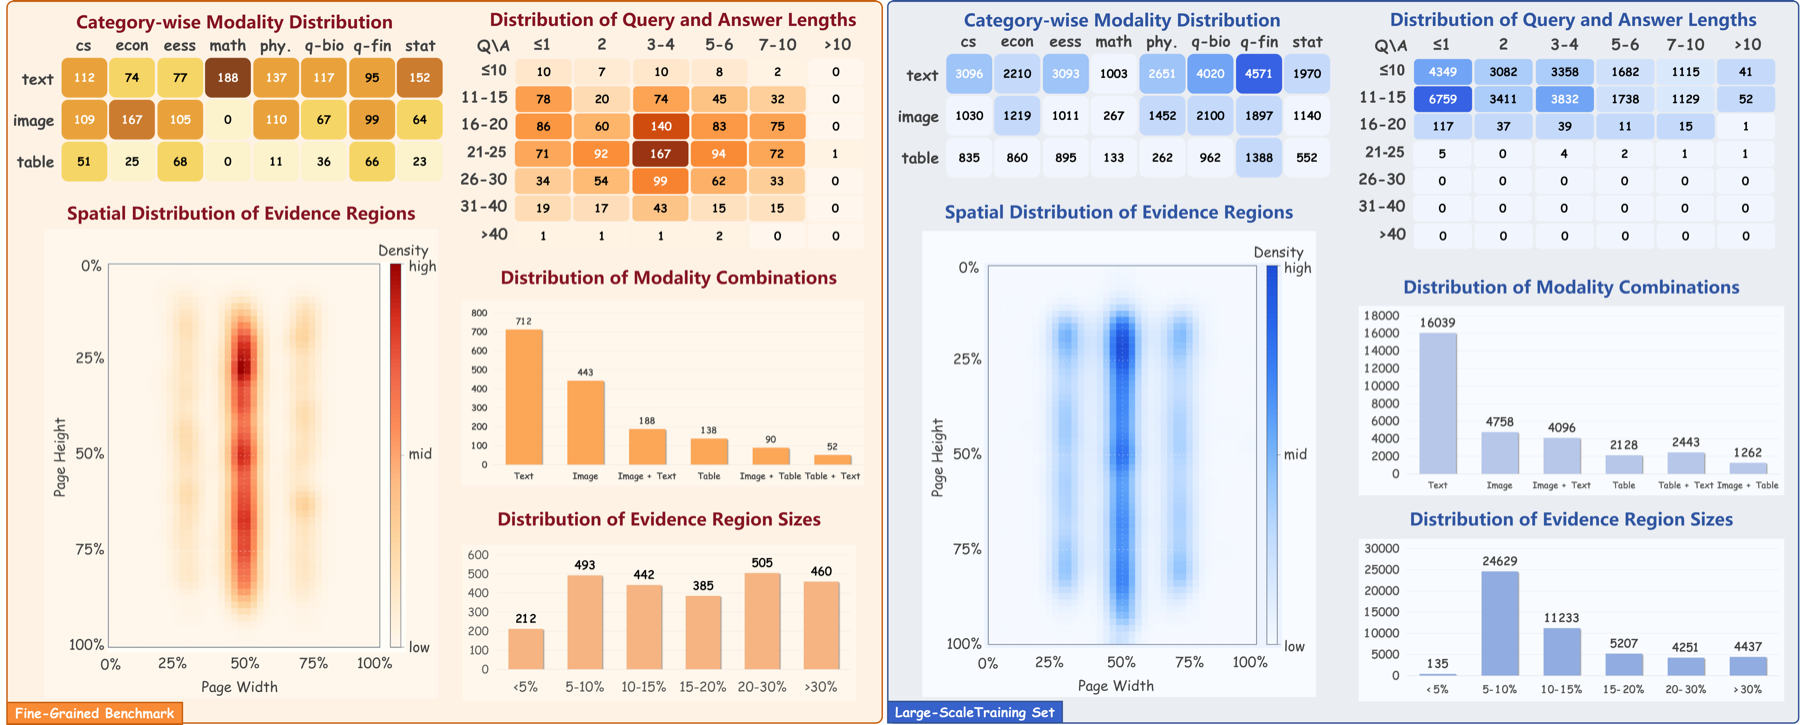
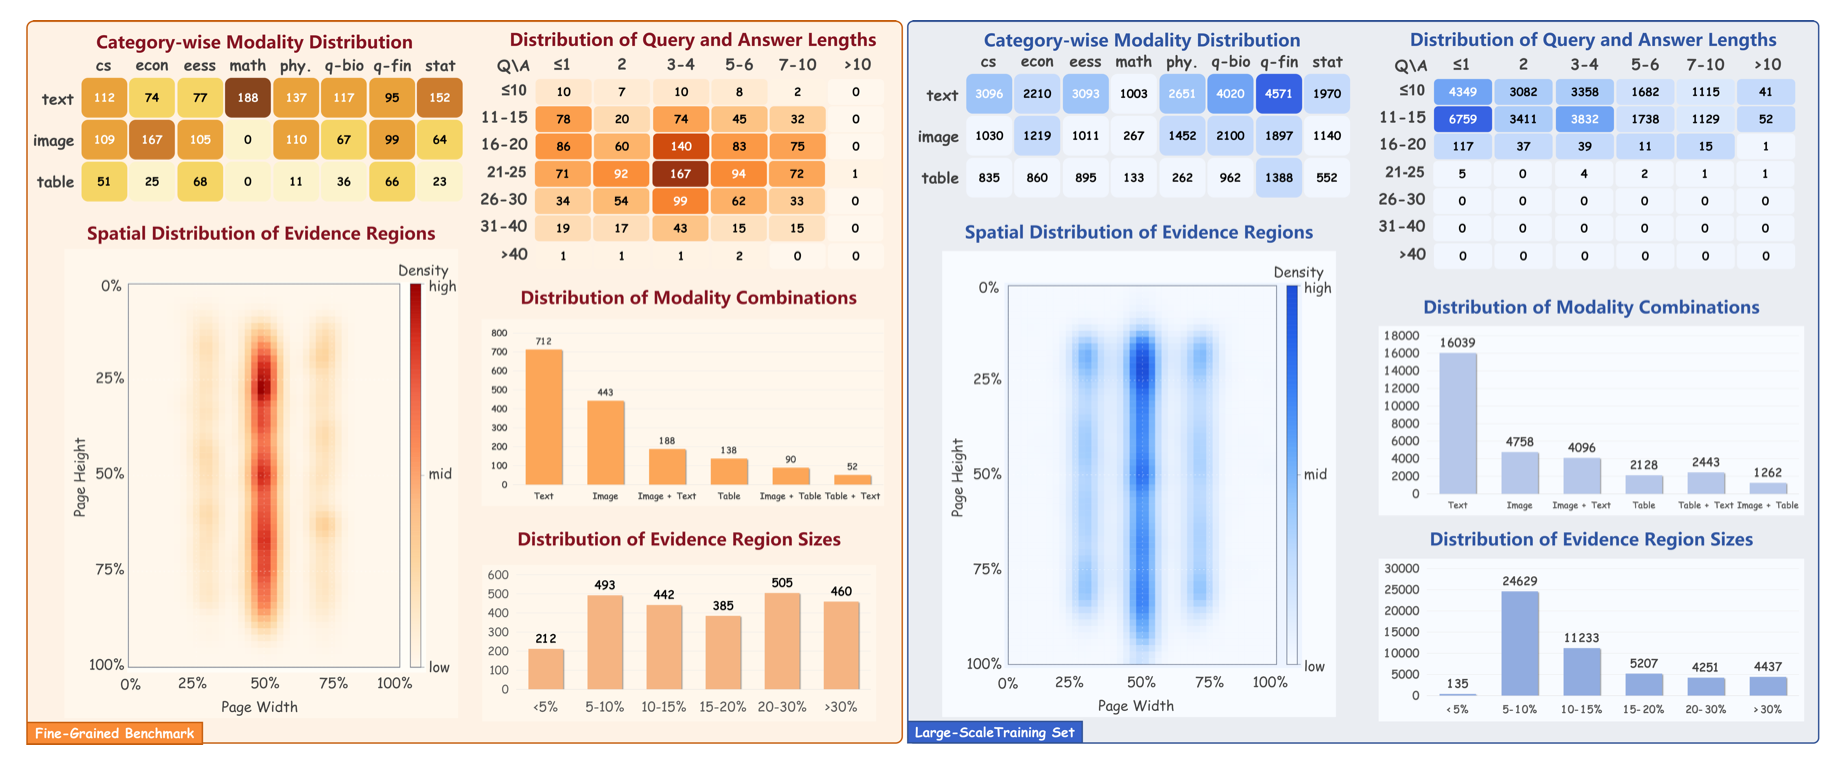
init commit

diff --git a/static/css/index.css b/static/css/index.css
@@ -245,7 +245,7 @@ img {
 }
 
 .metric-card {
-  border-radius: 1.25rem;
+  border-radius: 0.9rem;
   padding: 1.1rem 1rem;
 }
 
@@ -264,13 +264,13 @@ img {
 
 .hero-sidecard,
 .paper-card {
-  border-radius: 1.75rem;
+  border-radius: 1.05rem;
   padding: 1.25rem;
 }
 
 .hero-sidecard img,
 .paper-card img {
-  border-radius: 1.15rem;
+  border-radius: 0.75rem;
   border: 1px solid rgba(16, 42, 44, 0.08);
 }
 
@@ -326,7 +326,7 @@ img {
 }
 
 .feature-card {
-  border-radius: 1.35rem;
+  border-radius: 0.9rem;
   padding: 1.25rem;
 }
 
@@ -368,7 +368,7 @@ img {
 
 .visual-panel {
   overflow: hidden;
-  border-radius: 1.75rem;
+  border-radius: 1rem;
   border: 1px solid var(--line);
   background: rgba(255, 255, 255, 0.62);
   box-shadow: var(--shadow);
@@ -394,7 +394,7 @@ img {
 }
 
 .split-card {
-  border-radius: 1.5rem;
+  border-radius: 1rem;
   padding: 1.4rem;
 }
 
@@ -436,7 +436,7 @@ img {
 .code-panel {
   margin: 1rem 0 0;
   padding: 1rem 1.1rem;
-  border-radius: 1.1rem;
+  border-radius: 0.75rem;
   background: #142224;
   color: #f3f4f1;
   overflow-x: auto;
@@ -449,7 +449,7 @@ img {
 }
 
 .timeline-card {
-  border-radius: 1.6rem;
+  border-radius: 1rem;
   padding: 1.4rem;
 }
 
@@ -490,7 +490,7 @@ img {
 }
 
 .task-card {
-  border-radius: 1.5rem;
+  border-radius: 1rem;
   padding: 1.5rem;
 }
 
@@ -579,7 +579,7 @@ img {
 
 .example-panel {
   display: none;
-  border-radius: 1.75rem;
+  border-radius: 1.05rem;
   padding: 1.4rem;
   border: 1px solid var(--line);
   background: rgba(255, 255, 255, 0.78);
@@ -612,7 +612,7 @@ img {
 .image-frame {
   position: relative;
   overflow: hidden;
-  border-radius: 1.25rem;
+  border-radius: 0.8rem;
   border: 1px solid rgba(16, 42, 44, 0.1);
   background: #ffffff;
 }
@@ -624,7 +624,7 @@ img {
 
 .bbox-rect {
   position: absolute;
-  border-radius: 0.65rem;
+  border-radius: 0.3rem;
   border: 4px solid;
   background: rgba(255, 255, 255, 0.04);
   box-shadow: 0 0 0 9999px rgba(15, 19, 20, 0.08);
@@ -653,7 +653,7 @@ img {
 
 .sample-card {
   overflow: hidden;
-  border-radius: 1.5rem;
+  border-radius: 1rem;
 }
 
 .sample-content {
@@ -681,7 +681,7 @@ img {
 }
 
 .stats-card {
-  border-radius: 1.6rem;
+  border-radius: 1rem;
   padding: 1.4rem;
   height: 100%;
 }
@@ -725,7 +725,7 @@ img {
 
 .capability-grid article {
   padding: 1rem;
-  border-radius: 1.15rem;
+  border-radius: 0.8rem;
   background: rgba(255, 255, 255, 0.68);
   border: 1px solid rgba(16, 42, 44, 0.08);
 }
@@ -756,7 +756,7 @@ img {
 
 .paper-points article {
   padding: 1rem 1.05rem;
-  border-radius: 1.15rem;
+  border-radius: 0.8rem;
   background: rgba(255, 255, 255, 0.68);
   border: 1px solid rgba(16, 42, 44, 0.08);
 }
@@ -768,7 +768,7 @@ img {
 
 .resource-card {
   display: block;
-  border-radius: 1.5rem;
+  border-radius: 1rem;
   padding: 1.35rem;
   color: inherit;
   text-decoration: none;
@@ -883,7 +883,7 @@ img {
   .feature-card,
   .timeline-card,
   .example-panel {
-    border-radius: 1.25rem;
+    border-radius: 0.85rem;
   }
 
   .section-title {

diff --git a/static/image.py b/static/image.py
@@ -1,0 +1,45 @@
+import os
+from PIL import Image, ImageOps
+
+def add_white_border_to_png(input_folder, output_folder, border_size=20):
+    """
+    给文件夹中的所有 PNG 图片添加白色边框
+
+    :param input_folder: 输入文件夹路径
+    :param output_folder: 输出文件夹路径
+    :param border_size: 边框大小（像素）
+    """
+
+    # 创建输出文件夹（如果不存在）
+    os.makedirs(output_folder, exist_ok=True)
+
+    for filename in os.listdir(input_folder):
+        if filename.lower().endswith(".png"):
+            input_path = os.path.join(input_folder, filename)
+            output_path = os.path.join(output_folder, filename)
+
+            try:
+                # 打开图片
+                img = Image.open(input_path)
+
+                # 添加白色边框
+                bordered_img = ImageOps.expand(
+                    img,
+                    border=border_size,
+                    fill="white"
+                )
+
+                # 保存图片
+                bordered_img.save(output_path)
+
+                print(f"处理完成: {filename}")
+
+            except Exception as e:
+                print(f"处理失败 {filename}: {e}")
+
+
+if __name__ == "__main__":
+    input_folder = "images"   # 替换为你的输入文件夹路径
+    output_folder = "output_images" # 输出文件夹
+
+    add_white_border_to_png(input_folder, output_folder, border_size=20)
